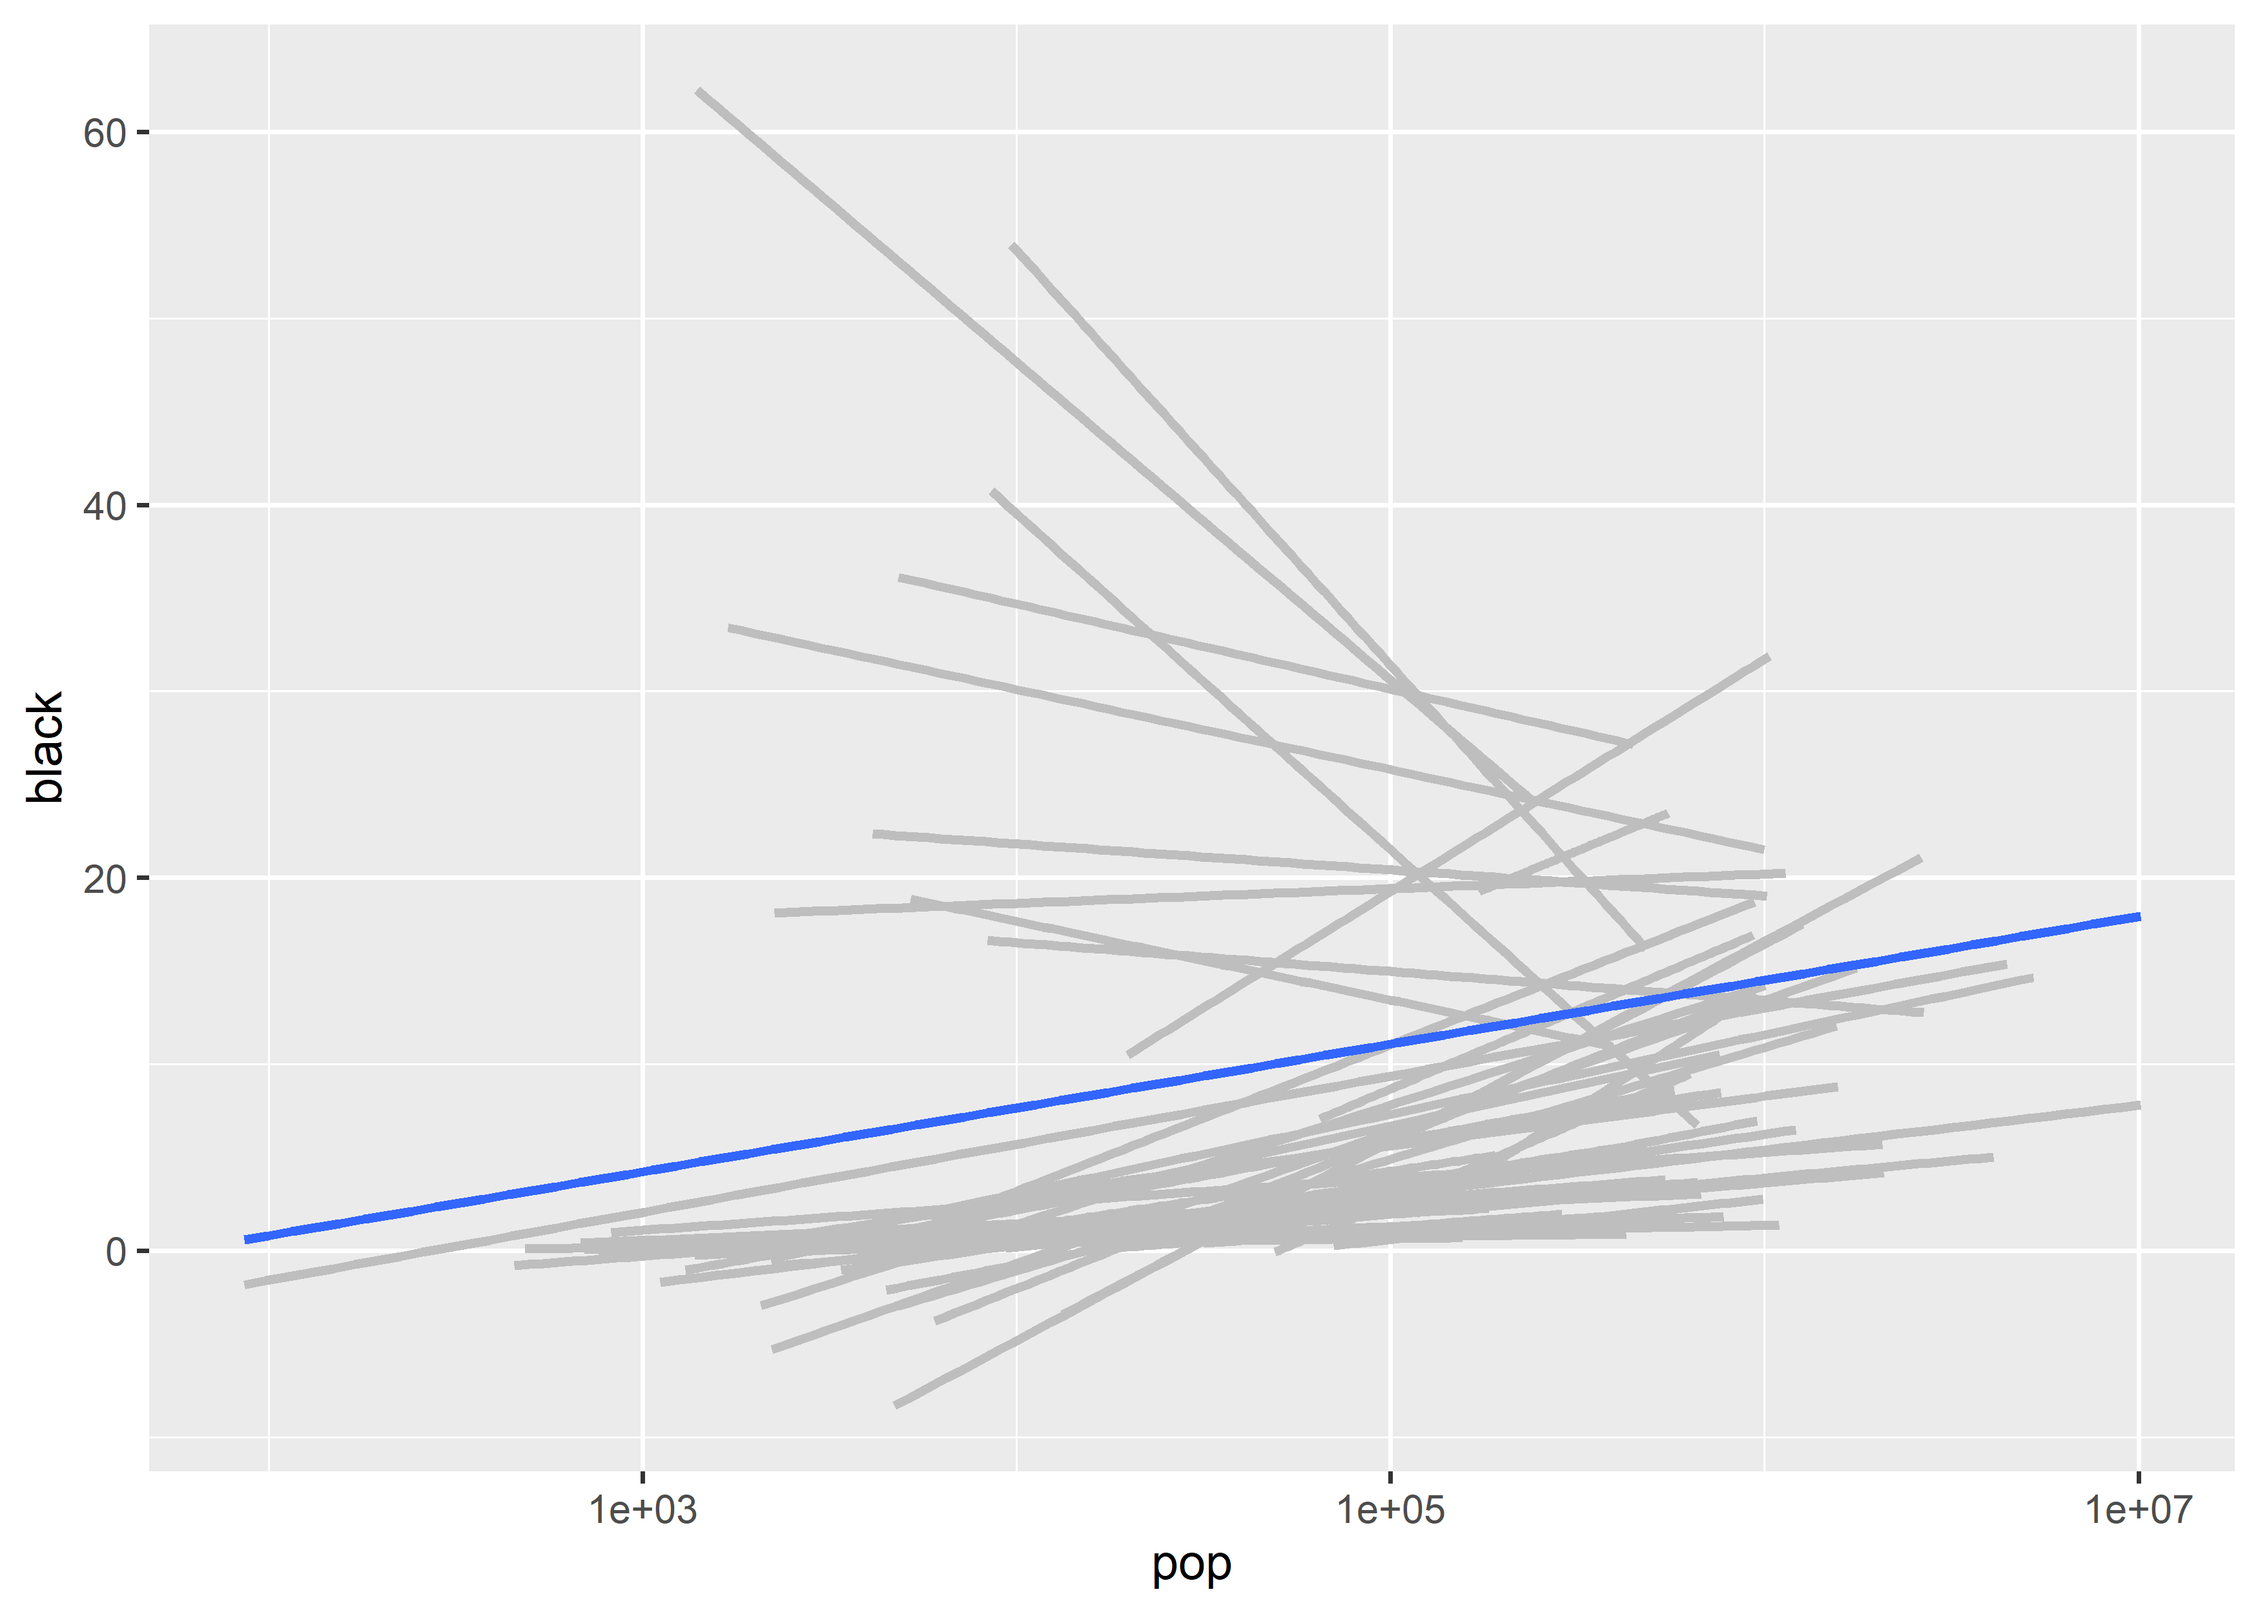
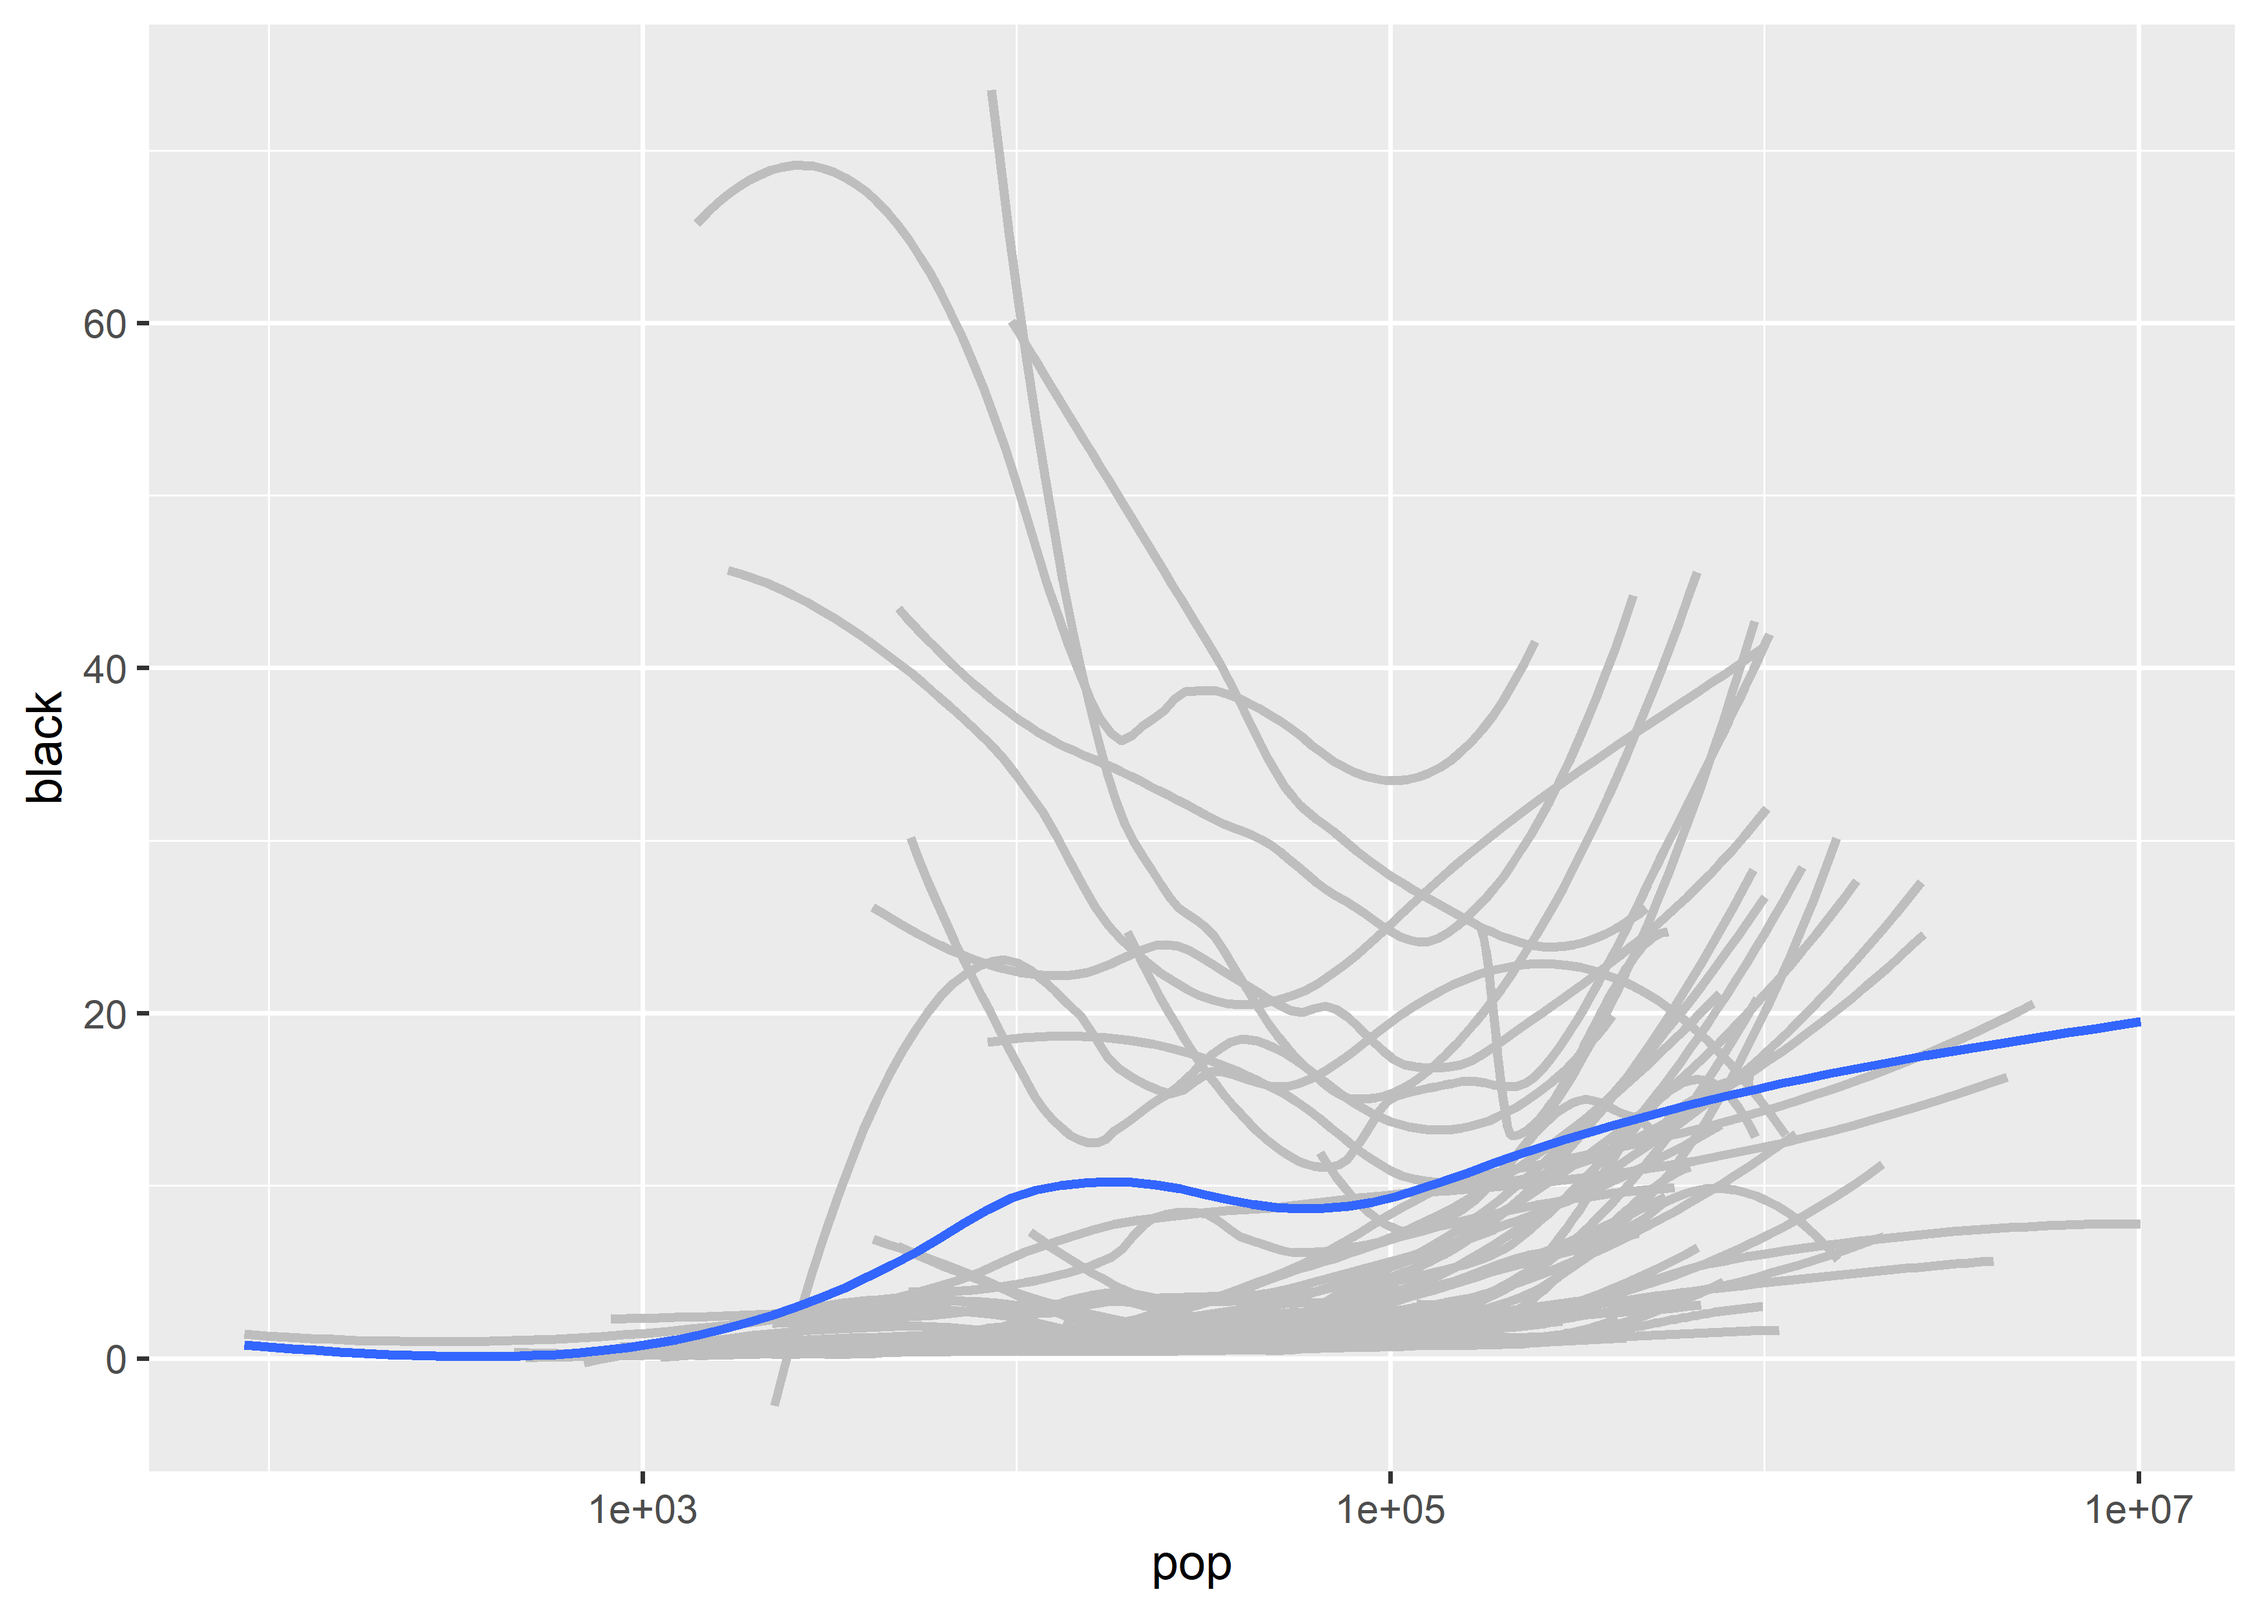
updates

diff --git a/DPR 101/Notes/05_show_the_right_numbers_pt1.md b/DPR 101/Notes/05_show_the_right_numbers_pt1.md
@@ -1,30 +1,53 @@
-Making sure you show the right numbers, Part 1
+Showing the right numbers, Part 1
 ================
+
+- [Goals](#goals)
+- [Making a data viz is an iterative
+  process](#making-a-data-viz-is-an-iterative-process)
+- [Grouping geometry](#grouping-geometry)
+- [Small multiples](#small-multiples)
+- [Transforming data with geoms](#transforming-data-with-geoms)
+- [Where to next?](#where-to-next)
+
+<center>
+
+[\<– `ggplot()` Basics, Part
+II](https://github.com/milesdwilliams15/Teaching/blob/main/DPR%20101/Notes/03_ggplot_pt2.md)
+\| [Back to Notes
+Homepage](https://github.com/milesdwilliams15/Teaching/blob/main/DPR%20101/Notes/README.md)
+\| [Showing the Right Numbers, Part II
+–\>](https://github.com/milesdwilliams15/Teaching/blob/main/DPR%20101/Notes/05_show_the_right_numbers_pt2.md)
+
+</center>
 
 ## Goals
 
--   Understand where different errors in plotting come from.
--   Understand how you can use ggplot commands to transform data.
+- Understand where different errors in plotting come from.
+- Understand how you can use ggplot commands to transform data.
 
 ## Making a data viz is an iterative process
 
-The first time you write some code to produce a data viz, it likely
-won’t look pretty. Sometimes you will try to tell R to do one thing, but
-the way you say it won’t be sensible or meaningful to R. You’ll have to
-write and rewrite your code until you get it right. I still have to do
-the same thing all the time.
+The first time you write some code to produce your data viz, it won’t
+always look amazing. Sometimes you will try to tell R to do one thing,
+but the way you say it won’t be sensible or meaningful to R. You’ll have
+to write and rewrite your code until you get it right. I still have to
+do the same thing all the time.
 
-If we open the `{socviz}` package we can access some data called
-`county_data`. This provides information at the county level in the US
-about different population demographics and election outcomes in 2018.
+You might also (correctly) tell R to do one thing and after the fact
+change your mind. Maybe there’s a typo in one of your labels. Maybe an
+entirely different geom would be a better choice. I personally find the
+process of tweaking my plots fun, but there’s no accounting for personal
+taste.
+
+Here’s an example of what this iterative process can look like. From the
+`{socviz}` package we’ll access some data called `county_data`. This
+provides information at the county level in the US about different
+population demographics and election outcomes in 2018.
 
 Let’s look at the relationship between population size and the share of
 the population that’s black. And let’s also try using `geom_line()`,
 which draws lines by connecting observations in order of the variable on
-the x-axis. This choices may seem sensible. We want to see how
-population relates to the share of the population that’s black. But,
-when we tell ggplot to show the relationship using `geom_line()` we get
-some wonky output.
+the x-axis. Does this seem like a sensible choice?
 
 ``` r
 library(tidyverse)
@@ -44,9 +67,9 @@ ggplot(Data) +
 
 <img src="05_show_the_right_numbers_pt1_files/figure-gfm/unnamed-chunk-1-1.png" width="75%" />
 
-What went wrong? We told R what to do, but our instructions weren’t
-terribly sensible. This is a case where a different geometry makes
-better sense. For example, `geom_point()`:
+What went wrong? R did exactly what we told it to do. It just so happens
+that our choice of geom was not the most useful way to show the data.
+Maybe `geom_point()` would be a better option? Let’s see.
 
 ``` r
 ggplot(Data) +
@@ -57,7 +80,21 @@ ggplot(Data) +
 
 <img src="05_show_the_right_numbers_pt1_files/figure-gfm/unnamed-chunk-2-1.png" width="75%" />
 
-We might also want to add a smoother to show the average trend.
+That looks much better! The problem with using a line plot to show the
+relationship between population and the share of the population that is
+black is that it creates the perception that the data points are
+related. The official term for this inference is *connection*, and it
+follows from a simple fact of human cognition: when things are visually
+tied or connected to each other, they are automatically interpreted as
+being related. Remember that a good data visualization is defined in
+reference to its goal. In this case, our goal is to show how the share
+of a population that is black is correlated with the overall county
+population size. We do not want to also convey the idea that one county
+is related to another.
+
+Other geoms are consistent with our goal as well. We might also add a
+smoother geom to show how the average of our variable in the y-axis
+changes given the variable on our x-axis.
 
 ``` r
 ggplot(Data) +
@@ -69,20 +106,26 @@ ggplot(Data) +
 
 <img src="05_show_the_right_numbers_pt1_files/figure-gfm/unnamed-chunk-3-1.png" width="75%" />
 
+## Grouping geometry
+
 There are a lot of points in this data and there’s a lot of noise, too.
-We might wonder how reliable this overall sample trend is. Maybe it
-would be better to do the trend by state.
+We might wonder how reliable the overall sample trend is. For instance,
+we might wonder whether it makes sense to show the relationship between
+population size and the share that’s black all together. Counties are
+organized into states, and maybe the trend in one state is different
+than in another. As it turns out, we can easily group our geoms by
+certain groups or categories when we plot them.
 
-But, but, but…
+The way we’ve done this before is to map an aesthetic, like color, to a
+particular category. We can do this with our data, but there’s one
+possible problem: there are 50 states! If we map color to state how will
+we even make sense of the plot, let alone have a legend that will fit in
+the data viz?
 
-Before we pull the trigger, we have a thought: there are 50 states! If
-we map something like color to state how will we even make sense of the
-plot, let alone have a legend that will fit in the data viz?
-
-It turns out, we have another option for mapping aesthetics: grouping.
+Thankfully we have another option for mapping aesthetics: grouping.
 Rather than map a color or something like that to state, we can just
 tell ggplot to draw a different smoothed trend per state but not to add
-different colors or a legend. Observe:
+different colors or a legend. Let’s try it out and see how it looks:
 
 ``` r
 ggplot(Data) +
@@ -96,8 +139,8 @@ ggplot(Data) +
 
 <img src="05_show_the_right_numbers_pt1_files/figure-gfm/unnamed-chunk-4-1.png" width="75%" />
 
-Whoa! That was supposed to be better. What happened? Let’s try a few
-more updates to the code:
+What do you think? It’s a little hard to look at. Maybe it would be
+better if we got rid of the confidence intervals.
 
 ``` r
 ggplot(Data) +
@@ -114,10 +157,10 @@ ggplot(Data) +
 
 <img src="05_show_the_right_numbers_pt1_files/figure-gfm/unnamed-chunk-5-1.png" width="75%" />
 
-Alright, that’s getting us *somewhere*, but we probably can do better
-still. Another option to try is to add a couple of different smoothed
-layers. One where we map groups to states and another that just shows
-the overall trend.
+That’s better, but we don’t have a finished product yet. Another option
+to try is to add a couple of different smoothed layers. One where we map
+groups to states and another that just shows the overall trend. We’ll
+drop the points geom, too.
 
 ``` r
 ggplot(Data) +
@@ -125,32 +168,34 @@ ggplot(Data) +
   geom_smooth(
     aes(group = state),
     se = F,
-    method = "lm",
     color = "gray"
   ) +
   geom_smooth(
-    se = F,
-    method = "lm"
+    se = F
   ) +
   scale_x_log10()
 ```
 
 <img src="05_show_the_right_numbers_pt1_files/figure-gfm/unnamed-chunk-6-1.png" width="75%" />
 
-Eh…still not great, but getting better. At the very least we can see
-that the positive trend between these two variables doesn’t always hold
-up at the state level. In some states the relationship is actually
-negative and strongly so. Maybe we should add another tool to our
-toolkit to better interrogate the data. Enter `facet_wrap()`.
+Still not great, but getting better. We can clearly see that the overall
+trend is positive but that it doesn’t always hold up at the state level.
+In some states the relationship is actually negative and strongly so.
 
 ## Small multiples
 
-Among the various ways that we can tell ggplot to show our data is to
-**facet** it by a variable, creating a “small multiple” plot.
+In addition to grouping geoms by categories, we can also create multiple
+panels that show relationships by different groups. This might be
+another useful approach to incorporate as we visualize the relationship
+between population size and the share that is black.
 
-There’s a variable in our data called `census_region` that has four
-values indicating whether a state is in the Northeast, Midwest, South,
-or West. Let’s see what happens when we facet by this variable:
+Enter `facet_wrap()`. This function lets us **facet** our data by a
+variable (or multiple variables). The result is what’s a *small
+multiple* plot.
+
+Let’s see what this looks like by using the variable called
+`census_region`. This column in our data has four values indicating
+whether a state is in the Northeast, Midwest, South, or West.
 
 ``` r
 ggplot(Data) +
@@ -174,15 +219,17 @@ ggplot(Data) +
 
 <img src="05_show_the_right_numbers_pt1_files/figure-gfm/unnamed-chunk-7-1.png" width="75%" />
 
-Interesting! What `facet_wrap()` has done is tell ggplot to make four
-different sub-plots, one for each census region in the data. We used the
-phrase `~ census_region` inside the function to give it instructions to
-facet by the values in this column in the data.
+How does that look? What `facet_wrap()` has done is tell ggplot to make
+four different sub-plots, one for each census region in the data. We
+used the phrase `~ census_region` inside the function to give it
+instructions to facet by the values in the `census_region` column in the
+data.
 
-The output shows that the South is really weird. Just about everywhere
-else, as county population goes up, so does the share of the population
-that’s black. But in the South the relationship goes in the opposite
-direction in several states.
+This way of splitting up the data helps us to see a number of things.
+For example, the South is really weird. Just about everywhere else, as
+county population goes up, so does the share of the population that’s
+black. But in the South the relationship goes in the opposite direction
+in several states.
 
 We can add a few different customizations to our faceted plot. We might,
 for instance, want to give ggplot the freedom to fit the range of values
@@ -215,7 +262,7 @@ ggplot(Data) +
 <img src="05_show_the_right_numbers_pt1_files/figure-gfm/unnamed-chunk-8-1.png" width="75%" />
 
 We can also use `facet_grid()` similarly to `facet_wrap()`. This
-function let’s you set easily facet by multiple categories at once.
+function let’s you easily facet by multiple categories at once.
 
 There’s actually a very helpful version of `facet_grid()` that we can
 access by installing and then loading the `{ggh4x}` package:
@@ -249,9 +296,9 @@ ggplot(Data) +
 
 <img src="05_show_the_right_numbers_pt1_files/figure-gfm/unnamed-chunk-9-1.png" width="75%" />
 
-Okay, so the South continues to look weird, but in particular counties
-in the South that voted disproportionately in favor of Clinton in 2018
-are the weirdest. Why do you think this would be?
+Breaking the data up like this, the South continues to look weird. In
+particular, counties in the South that voted disproportionately in favor
+of Clinton in 2018 are the weirdest. Why do you think this would be?
 
 ## Transforming data with geoms
 
@@ -324,5 +371,18 @@ ggplot(Data) +
 We’ll introduce some new functions later on that let us do many of these
 transformations and more before we even give the data to ggplot. In my
 opinion, writing some code to prep the data before giving it to ggplot
-is “better,” but it’s worthwhile to know that you can do some
-transformations of your data “under the hood” with ggplot, too.
+is better, but it’s worthwhile to know that you can do some
+transformations of your data under the hood with ggplot, too.
+
+## Where to next?
+
+<center>
+
+[\<– `ggplot()` Basics, Part
+II](https://github.com/milesdwilliams15/Teaching/blob/main/DPR%20101/Notes/03_ggplot_pt2.md)
+\| [Back to Notes
+Homepage](https://github.com/milesdwilliams15/Teaching/blob/main/DPR%20101/Notes/README.md)
+\| [Showing the Right Numbers, Part II
+–\>](https://github.com/milesdwilliams15/Teaching/blob/main/DPR%20101/Notes/05_show_the_right_numbers_pt2.md)
+
+</center>
